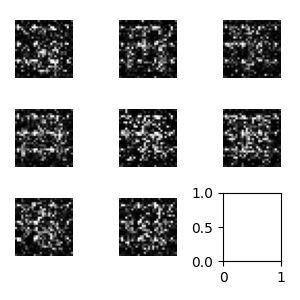
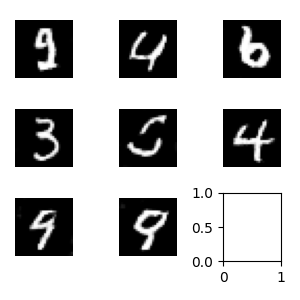
looking good !

diff --git a/dcgan.cpp b/dcgan.cpp
@@ -48,7 +48,7 @@ struct DiscriminatorImpl : torch::nn::Module {
         x = leaky_relu(conv1(x));
         x = leaky_relu(batch_norm1(conv2(x)));
         x = leaky_relu(batch_norm2(conv3(x)));
-        x = torch::sigmoid(conv4(x));
+        x = conv4(x);  // Removed Sigmoid activation here
         return x;
     }
 };
@@ -60,6 +60,21 @@ void weights_init(torch::nn::Module& module) {
     } else if (auto* bn = module.as<torch::nn::BatchNorm2d>()) {
         torch::nn::init::normal_(bn->weight, 1.0, 0.02);
         torch::nn::init::constant_(bn->bias, 0);
+    }
+}
+
+void print_weights(torch::Tensor tensor, const std::string& name) {
+    auto data = tensor.accessor<float, 4>();
+    std::cout << name << " weights (subset):" << std::endl;
+    for (int i = 0; i < std::min<int>(3, data.size(0)); ++i) {
+        for (int j = 0; j < std::min<int>(3, data.size(1)); ++j) {
+            for (int k = 0; k < std::min<int>(3, data.size(2)); ++k) {
+                for (int l = 0; l < std::min<int>(3, data.size(3)); ++l) {
+                    std::cout << data[i][j][k][l] << " ";
+                }
+            }
+            std::cout << std::endl;
+        }
     }
 }
 
@@ -87,8 +102,8 @@ int main() {
     generator->to(device);
     discriminator->to(device);
 
-    torch::optim::Adam generator_optimizer(generator->parameters(), torch::optim::AdamOptions(2e-3).betas(std::make_tuple(0.5, 0.5)));
-    torch::optim::Adam discriminator_optimizer(discriminator->parameters(), torch::optim::AdamOptions(2e-3).betas(std::make_tuple(0.5, 0.5)));
+    torch::optim::Adam generator_optimizer(generator->parameters(), torch::optim::AdamOptions(2e-4).betas(std::make_tuple(0.5, 0.5)));
+    torch::optim::Adam discriminator_optimizer(discriminator->parameters(), torch::optim::AdamOptions(2e-4).betas(std::make_tuple(0.5, 0.5)));
 
     // Vérifiez si les checkpoints existent et chargez-les si disponibles
     if (std::filesystem::exists("generator-checkpoint.pt") && std::filesystem::exists("discriminator-checkpoint.pt")) {
@@ -107,6 +122,9 @@ int main() {
     auto data_loader = torch::data::make_data_loader(std::move(dataset), torch::data::DataLoaderOptions().batch_size(kBatchSize).workers(2));
     std::cout << "Data loading completed." << std::endl;
 
+    auto previous_discriminator_weights = discriminator->conv1->weight.clone();
+    auto previous_generator_weights = generator->conv1->weight.clone();
+
     for (int64_t epoch = 1; epoch <= kNumberOfEpochs; ++epoch) {
         std::cout << "Starting epoch " << epoch << " of " << kNumberOfEpochs << std::endl;
         int64_t batch_index = 0;
@@ -117,16 +135,16 @@ int main() {
             // Train discriminator with real images
             discriminator->zero_grad();
             auto real_images = batch.data.to(device);
-            auto real_labels = torch::empty(batch.data.size(0), device).uniform_(0.8, 1.0);
+            auto real_labels = torch::empty(batch.data.size(0), device).uniform_(0.8, 1.0); // Lissage des labels pour les vraies images
             auto output_real = discriminator->forward(real_images).reshape(real_labels.sizes());
             auto loss_real = torch::binary_cross_entropy_with_logits(output_real, real_labels);
             loss_real.backward();
 
             // Train discriminator with fake images
             auto noise = torch::randn({batch.data.size(0), kNoiseSize, 1, 1}, device);
-            auto fake_images = generator->forward(noise);
-            auto fake_labels = torch::zeros(batch.data.size(0), device);
-            auto output_fake = discriminator->forward(fake_images.detach()).reshape(fake_labels.sizes());
+            auto fake_images = generator->forward(noise).detach();  // Détacher pour ne pas propager les gradients au générateur
+            auto fake_labels = torch::zeros(batch.data.size(0), device); // Utilisation des labels durs pour les fausses images
+            auto output_fake = discriminator->forward(fake_images).reshape(fake_labels.sizes());
             auto loss_fake = torch::binary_cross_entropy_with_logits(output_fake, fake_labels);
             loss_fake.backward();
 
@@ -135,11 +153,20 @@ int main() {
 
             // Train generator
             generator->zero_grad();
-            fake_labels.fill_(1);
-            output_fake = discriminator->forward(fake_images).reshape(fake_labels.sizes());
-            auto g_loss = torch::binary_cross_entropy_with_logits(output_fake, fake_labels);
+            auto generated_labels = torch::ones(batch.data.size(0), device); // Labels pour tromper le discriminateur
+            auto output_fake_gen = discriminator->forward(generator->forward(noise));  // Passer par le discriminateur pour évaluer les images générées
+            auto g_loss = torch::binary_cross_entropy_with_logits(output_fake_gen.reshape(generated_labels.sizes()), generated_labels);
             g_loss.backward();
             generator_optimizer.step();
+
+            auto discriminator_weight_change = torch::sum(torch::abs(discriminator->conv1->weight - previous_discriminator_weights)).item<float>();
+            auto generator_weight_change = torch::sum(torch::abs(generator->conv1->weight - previous_generator_weights)).item<float>();
+
+            previous_discriminator_weights = discriminator->conv1->weight.clone();
+            previous_generator_weights = generator->conv1->weight.clone();
+
+            std::cout << "Discriminator weight change: " << discriminator_weight_change << std::endl;
+            std::cout << "Generator weight change: " << generator_weight_change << std::endl;
 
             if (batch_index % kCheckpointEvery == 0) {
                 std::cout << "Saving checkpoints at batch " << batch_index << " of epoch " << epoch << std::endl;
